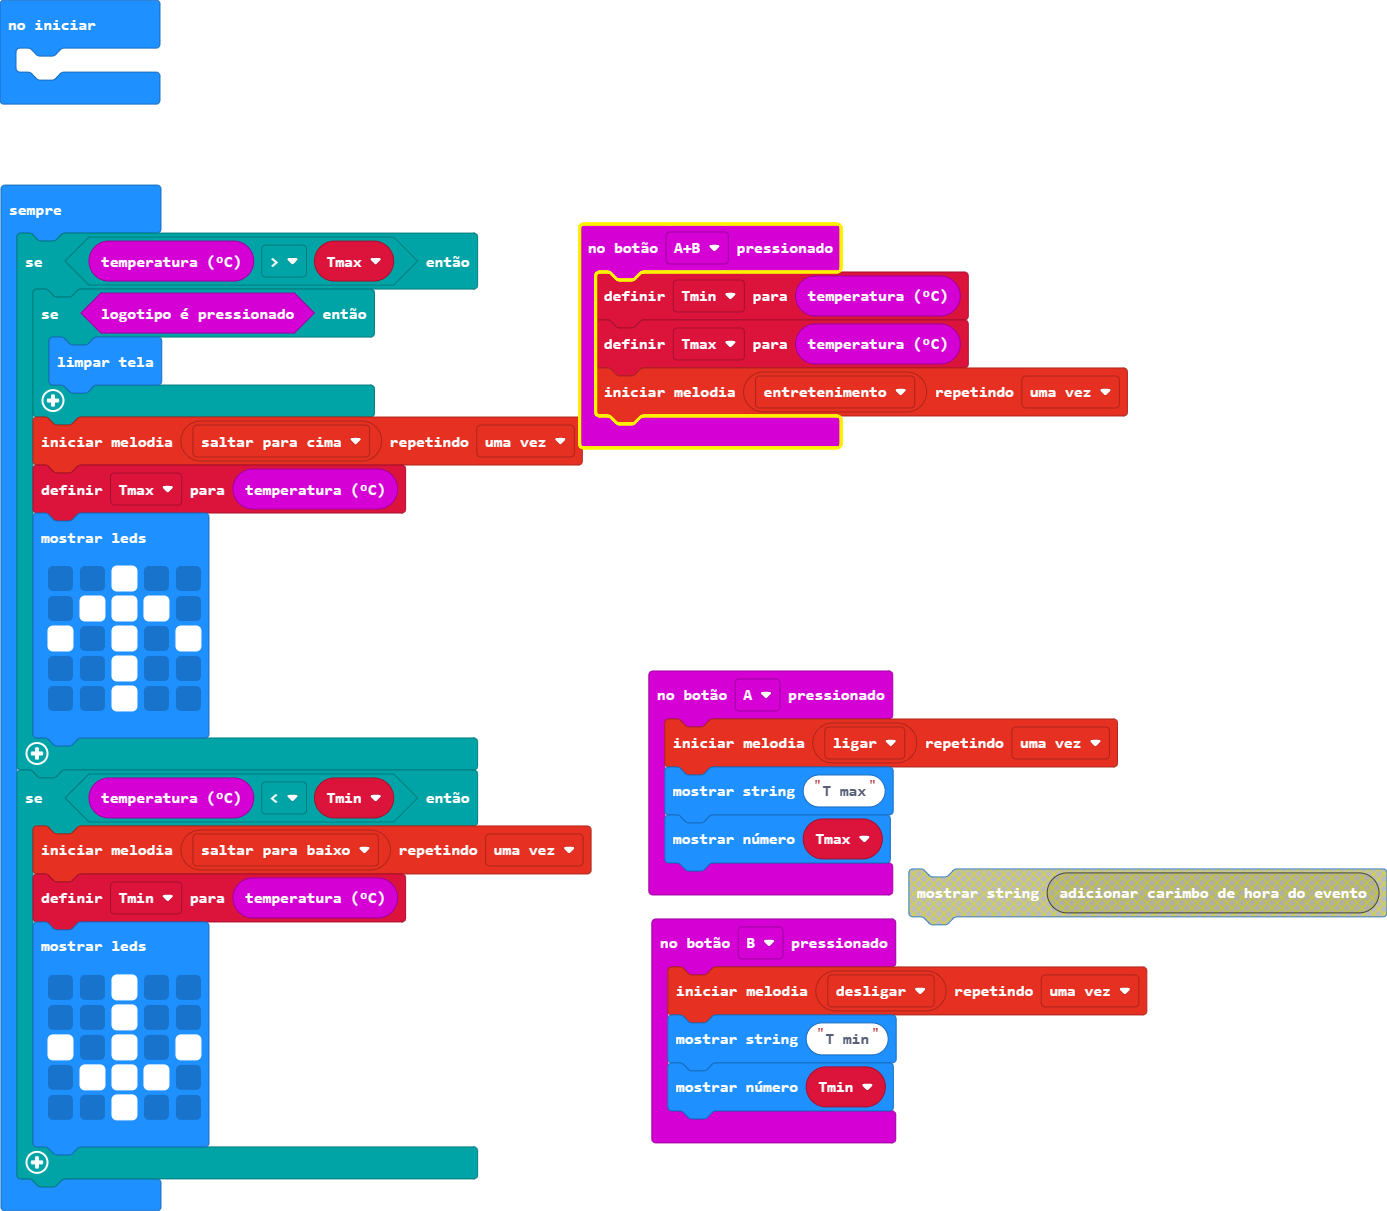
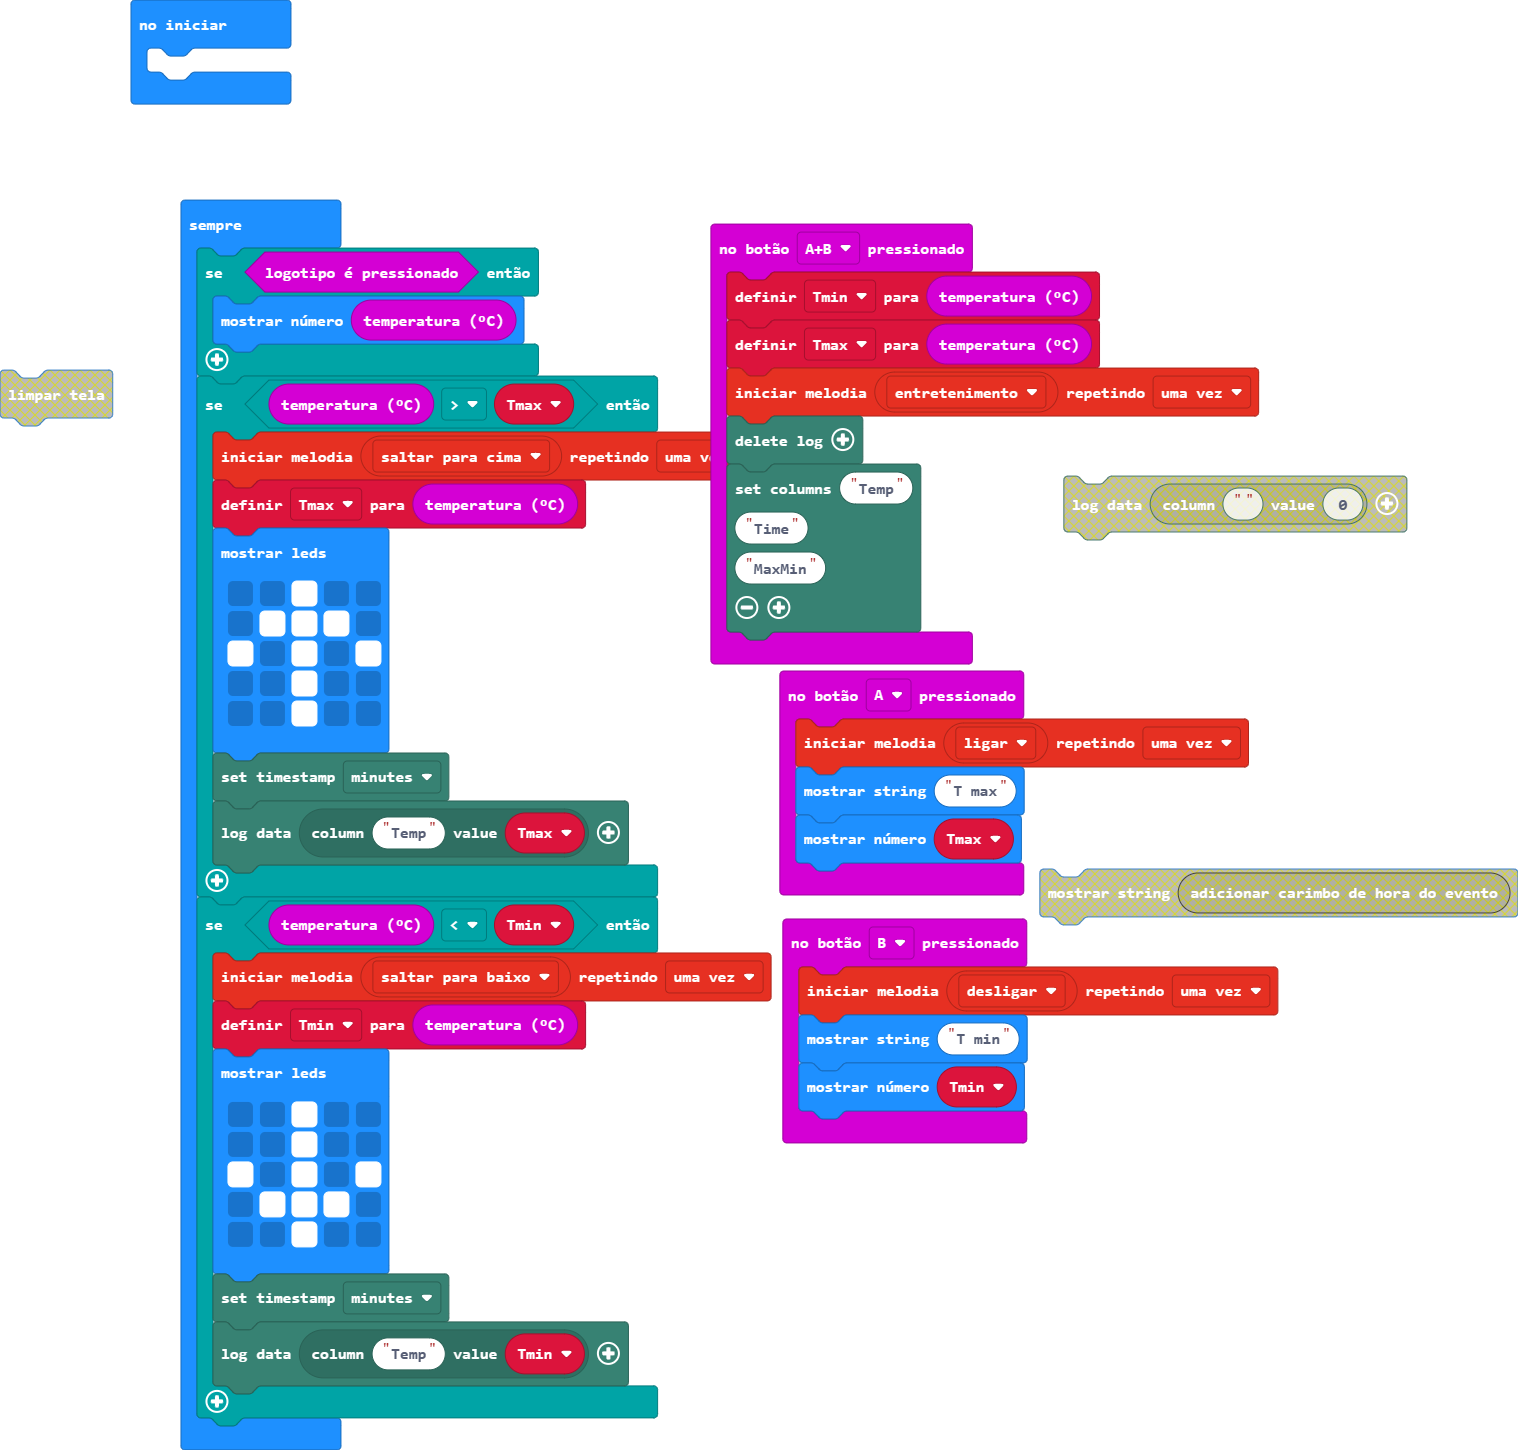
Atualizar 'pxt.json, main.blocks, main.ts'

diff --git a/main.ts b/main.ts
@@ -9,6 +9,12 @@ input.onButtonPressed(Button.AB, function () {
     Tmin = input.temperature()
     Tmax = input.temperature()
     music.startMelody(music.builtInMelody(Melodies.Entertainer), MelodyOptions.Once)
+    datalogger.deleteLog()
+    datalogger.setColumnTitles(
+    "Temp",
+    "Time",
+    "MaxMin"
+    )
 })
 input.onButtonPressed(Button.B, function () {
     music.startMelody(music.builtInMelody(Melodies.PowerDown), MelodyOptions.Once)
@@ -16,10 +22,10 @@ input.onButtonPressed(Button.B, function () {
     basic.showNumber(Tmin)
 })
 basic.forever(function () {
+    if (input.logoIsPressed()) {
+        basic.showNumber(input.temperature())
+    }
     if (input.temperature() > Tmax) {
-        if (input.logoIsPressed()) {
-            basic.clearScreen()
-        }
         music.startMelody(music.builtInMelody(Melodies.JumpUp), MelodyOptions.Once)
         Tmax = input.temperature()
         basic.showLeds(`
@@ -29,6 +35,8 @@ basic.forever(function () {
             . . # . .
             . . # . .
             `)
+        datalogger.includeTimestamp(FlashLogTimeStampFormat.Minutes)
+        datalogger.log(datalogger.createCV("Temp", Tmax))
     }
     if (input.temperature() < Tmin) {
         music.startMelody(music.builtInMelody(Melodies.JumpDown), MelodyOptions.Once)
@@ -40,5 +48,7 @@ basic.forever(function () {
             . # # # .
             . . # . .
             `)
+        datalogger.includeTimestamp(FlashLogTimeStampFormat.Minutes)
+        datalogger.log(datalogger.createCV("Temp", Tmin))
     }
 })
